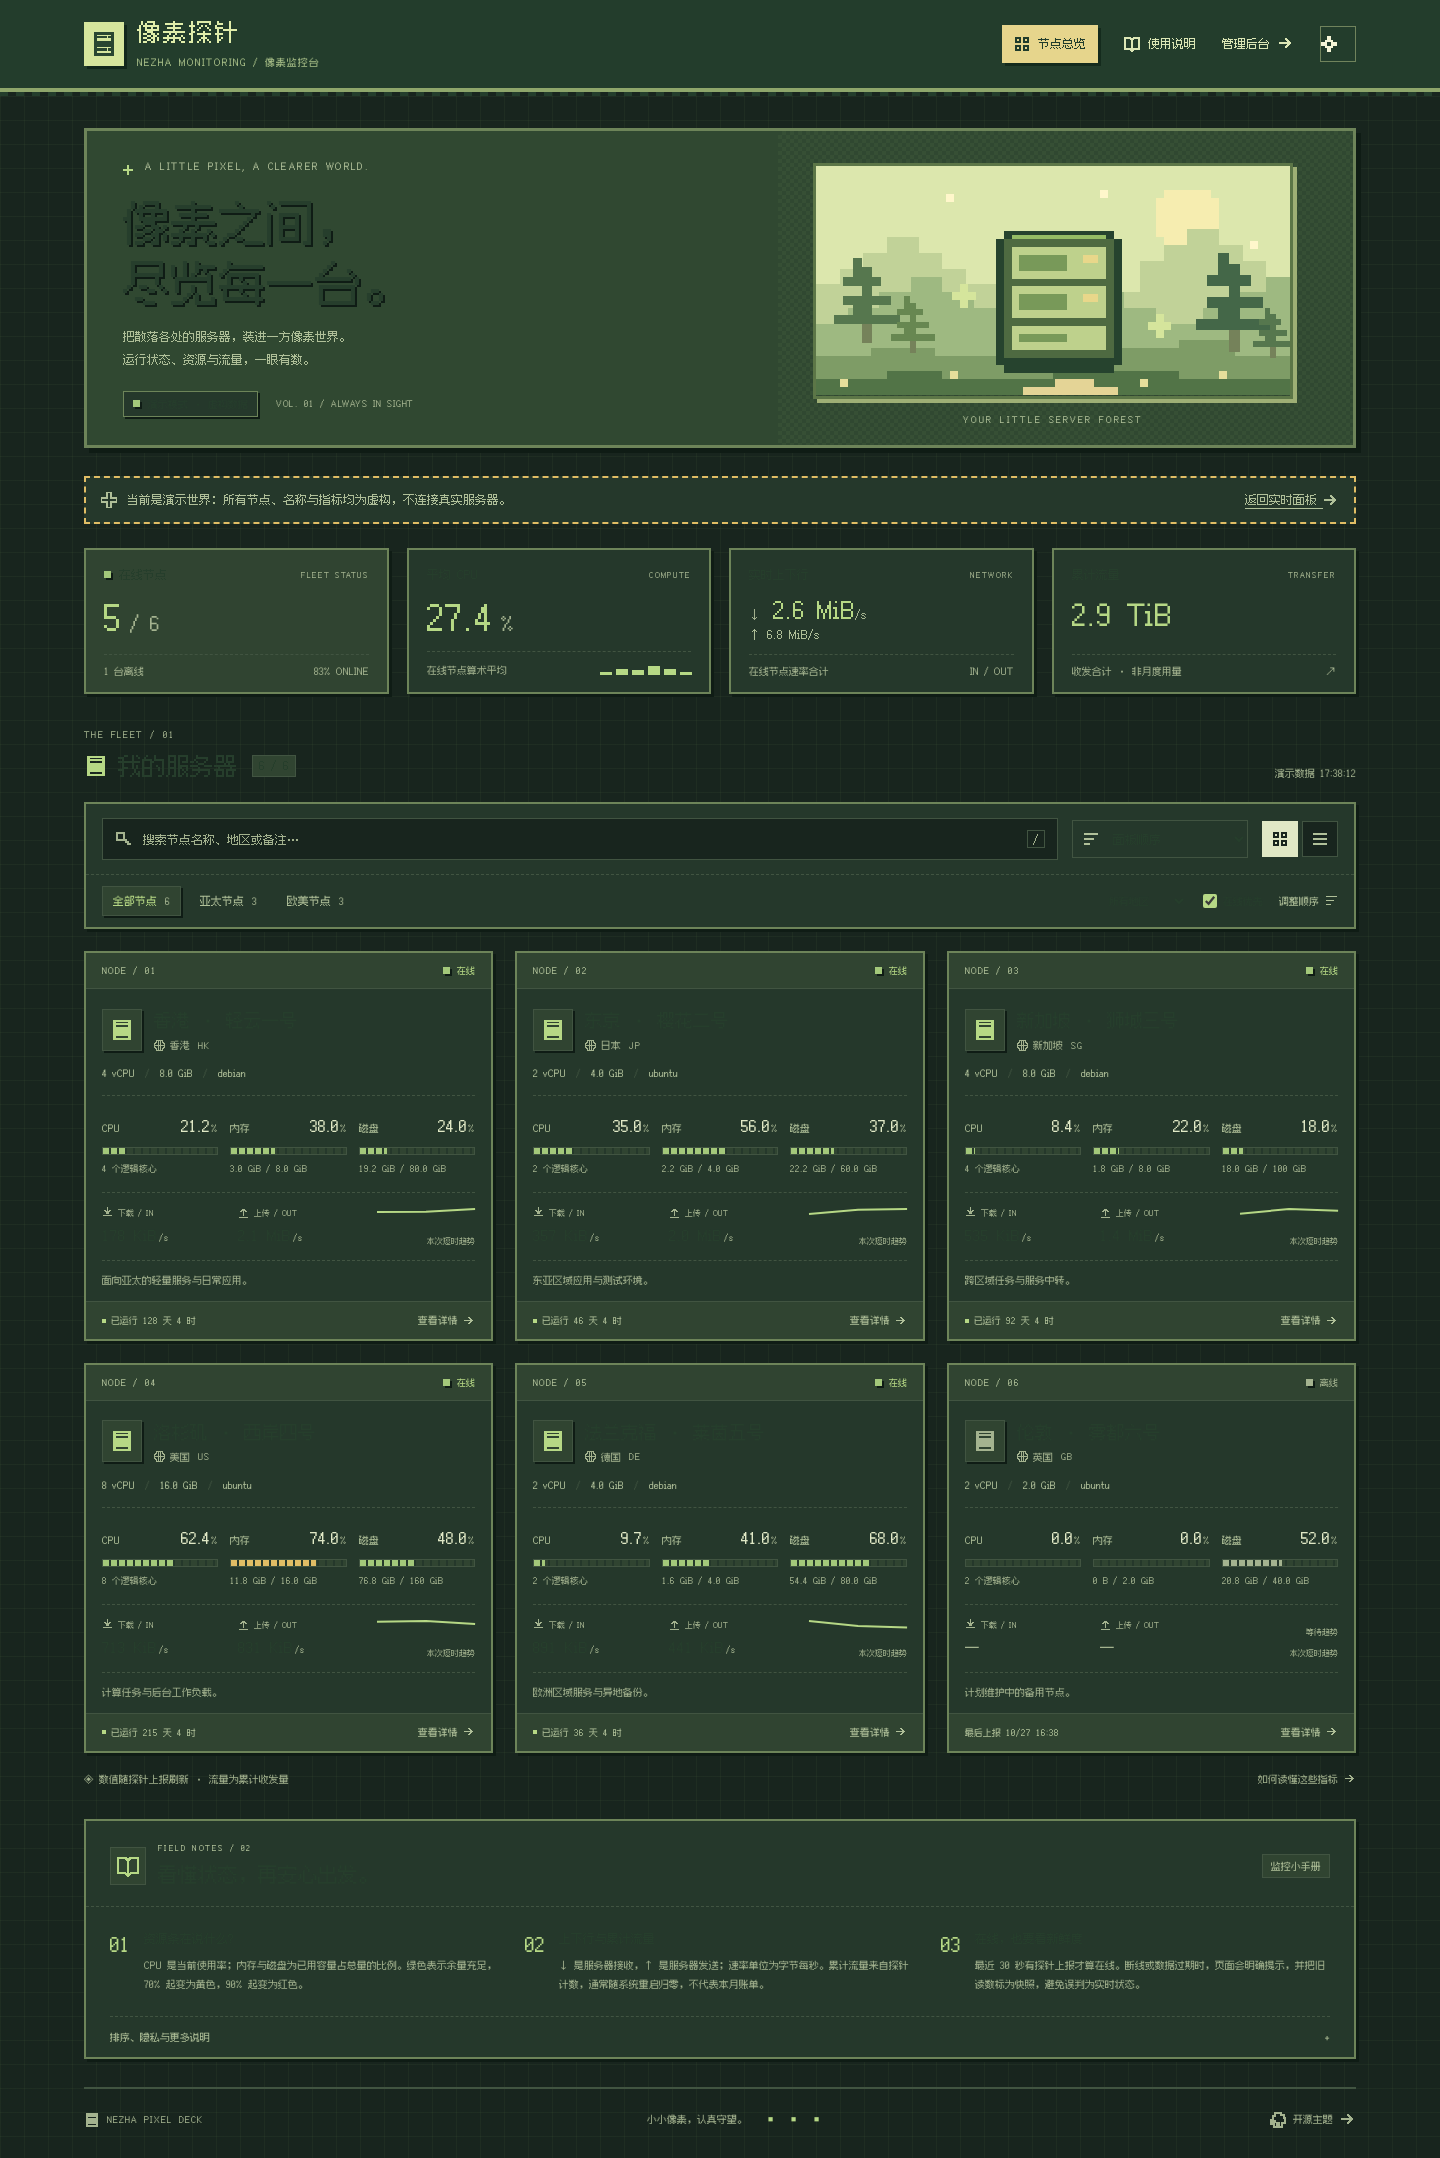
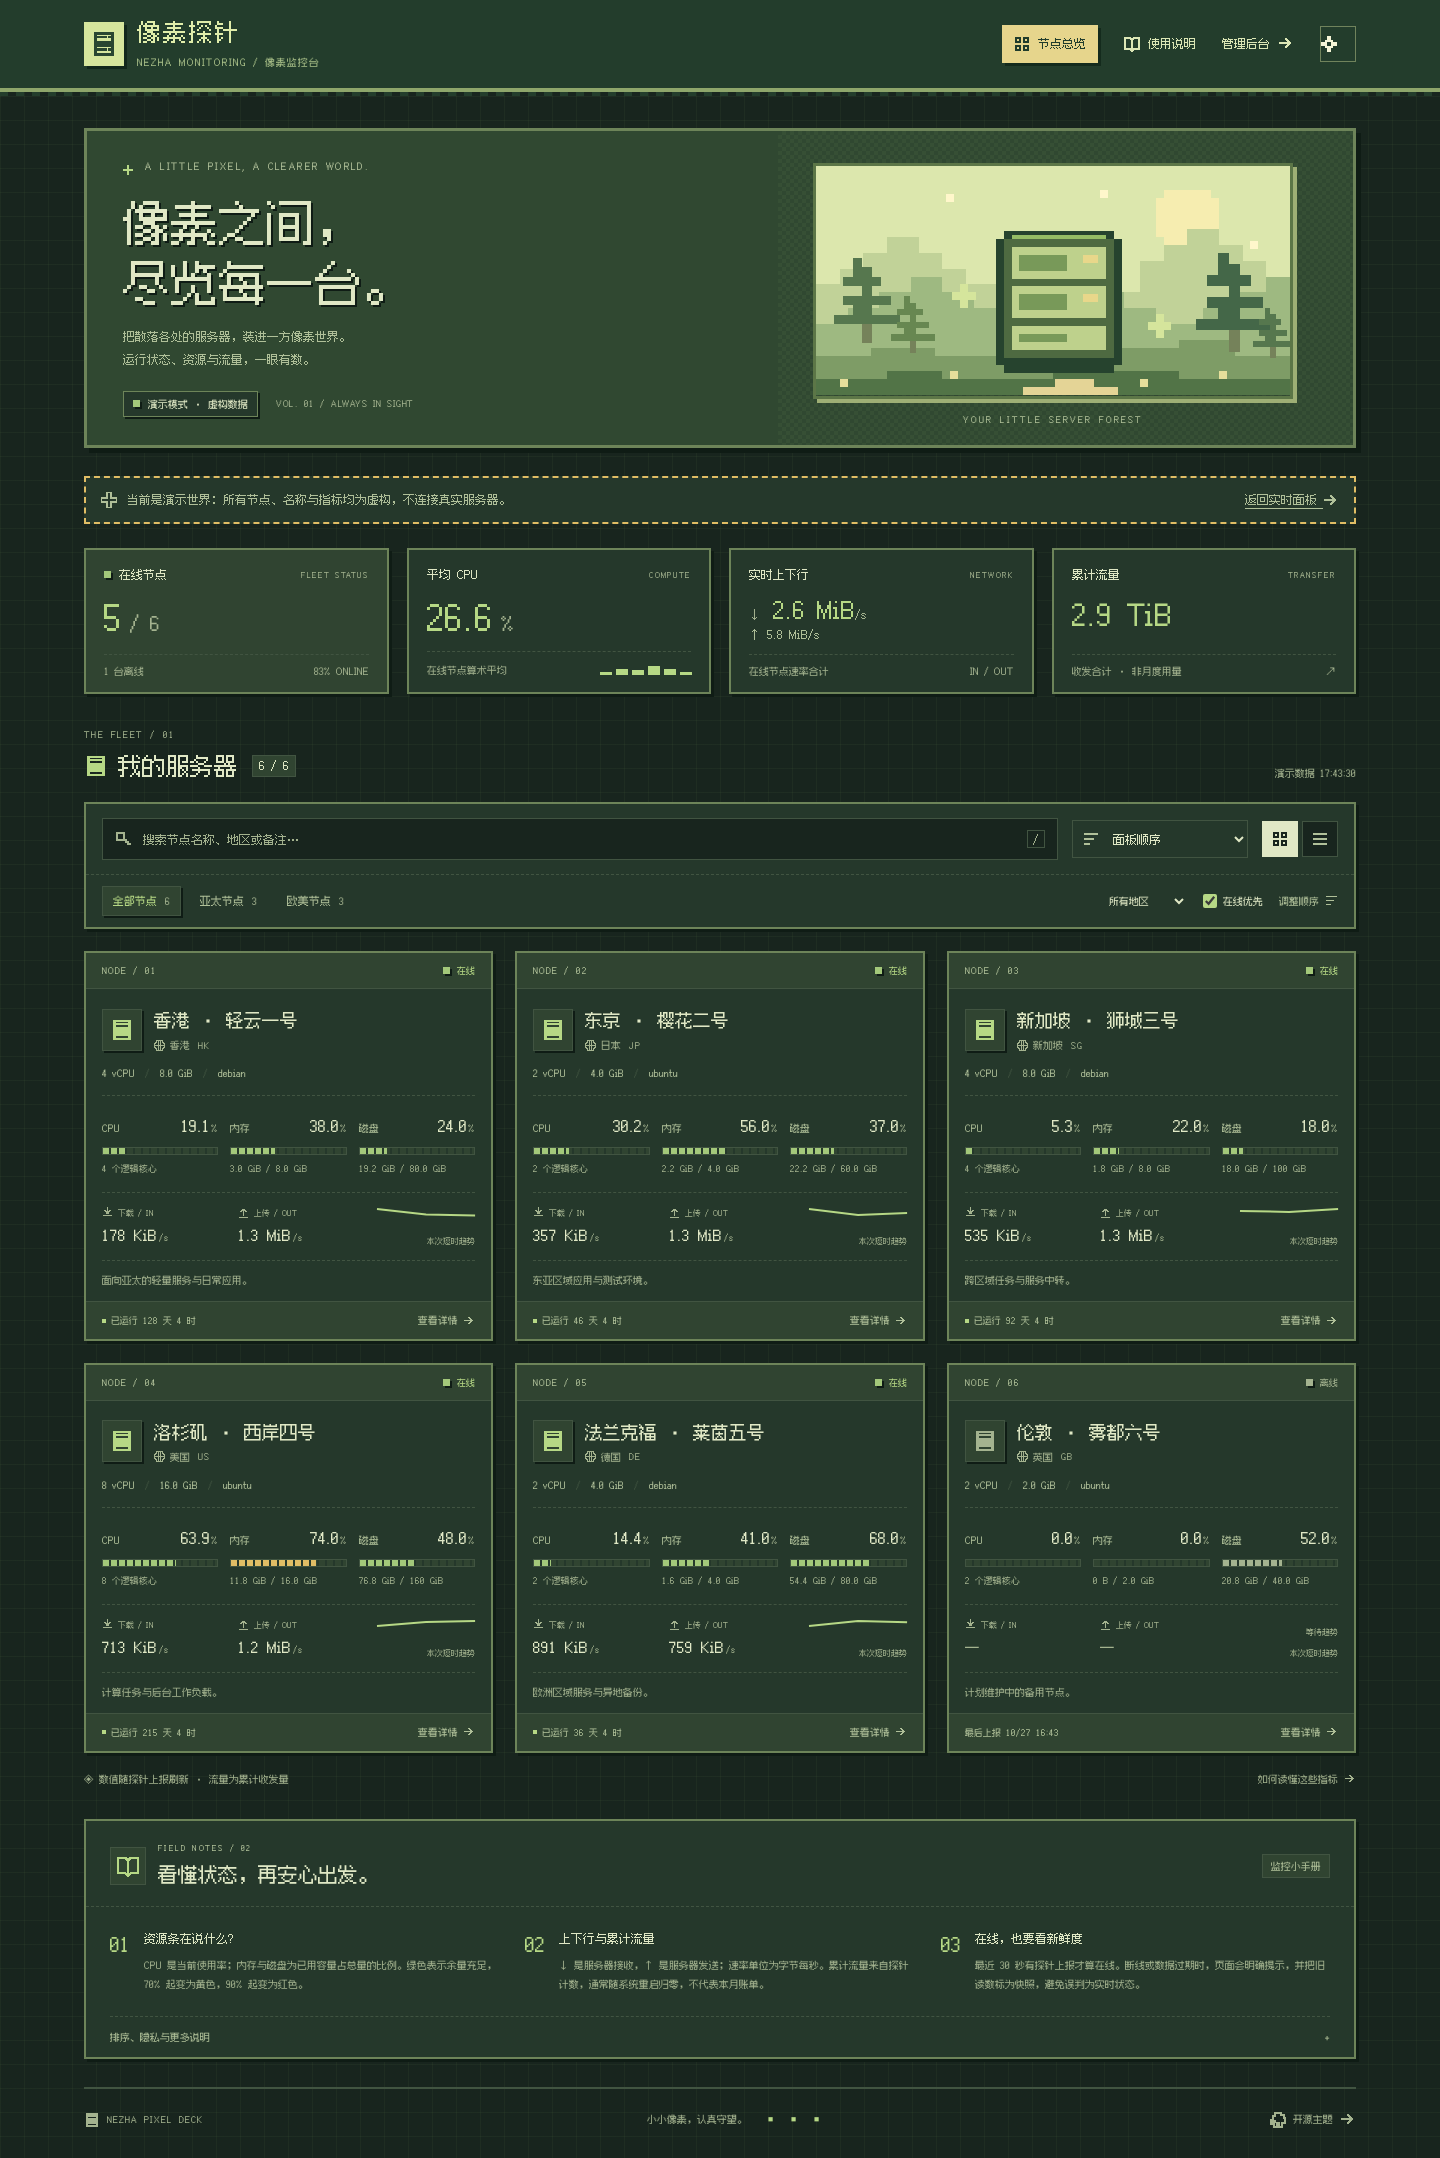
fix: preserve dark theme contrast and count zero-valued CPU reports

diff --git a/tests/dashboard.spec.ts b/tests/dashboard.spec.ts
@@ -37,6 +37,7 @@ test("manual order survives reload and deep theme preference persists", async ({
   await page.reload();
   await expect(page.locator(".node-name").first()).toContainText("东京");
   await expect(page.locator("html")).toHaveAttribute("data-theme", "dark");
+  await expect(page.locator("body")).toHaveCSS("color", "rgb(224, 232, 197)");
 });
 test("live mode reads same-origin v2 frames and escapes public notes", async ({
   page,
@@ -58,6 +59,7 @@ test("live mode reads same-origin v2 frames and escapes public notes", async ({
         data: {
           servers: demoServers().map((s) => ({
             ...s,
+            state: { ...s.state, cpu: s.id === 102 ? undefined : s.state?.cpu },
             public_note: '<img src=x onerror="window.__injected=true">',
           })),
         },
@@ -69,6 +71,12 @@ test("live mode reads same-origin v2 frames and escapes public notes", async ({
   await expect(page.locator("#connection-label")).toHaveText("实时连接");
   await expect(page.locator(".node-card")).toHaveCount(6);
   await expect(page.locator(".node-name").first()).toContainText("东京");
+  await expect(
+    page
+      .locator(".node-card")
+      .first()
+      .getByRole("meter", { name: "CPU使用率" }),
+  ).toHaveAttribute("aria-valuenow", "0.0");
   await expect(page.locator(".node-name").nth(1)).toHaveText("自定义别名");
   await expect(page.locator(".card-note").first()).toContainText("<img");
   expect(

diff --git a/src/main.ts b/src/main.ts
@@ -163,7 +163,8 @@ function card(s: Server, index: number) {
     live = online(s),
     stale = !current(),
     cores = cpuCount(h.cpu);
-  const cpu = typeof st.cpu === "number" ? Math.min(100, finite(st.cpu)) : null;
+  // Nezha omits zero-valued state fields; a present state with no cpu means 0%.
+  const cpu = s.state ? Math.min(100, finite(st.cpu)) : null;
   const memory = percent(st.mem_used, h.mem_total),
     disk = percent(st.disk_used, h.disk_total);
   const orderButtons = editing
@@ -181,7 +182,7 @@ function card(s: Server, index: number) {
 function renderStats() {
   const active = servers.filter(online),
     total = servers.length;
-  const cpu = active.filter((s) => typeof s.state?.cpu === "number");
+  const cpu = active;
   const average = cpu.length
     ? (
         cpu.reduce((sum, s) => sum + finite(s.state?.cpu), 0) / cpu.length

diff --git a/src/style.css b/src/style.css
@@ -8,7 +8,7 @@
 }
 :root {
   font-family: Pixel, ui-monospace, monospace;
-  color: #263e2c;
+  color: var(--ink);
   background: #eff2db;
   --bg: #eff2db;
   --ink: #263e2c;

diff --git a/README.md b/README.md
@@ -41,6 +41,8 @@ npm run build
 sudo python3 scripts/install.py --dashboard-dir /opt/nezha/dashboard --dist dist
 ```
 
+也可从 [Releases](https://github.com/xuanvivo/nezha-pixel-deck/releases) 下载已构建的 `dist.zip`，解压后使用仓库内的安装脚本。
+
 实际工作目录和模板设置需与你的部署一致。安装器只安装静态主题，提供旧版本备份和回滚记录。**完整步骤、容器挂载、代理、定制与回滚见 [部署文档](docs/deployment.md)。**
 
 可在部署机器创建 `config.local.json`，设置站点标题、默认顺序、别名和节点说明；示例见 [config.example.json](public/config.example.json)。该文件是公开文件，只放允许访客看到的信息。
